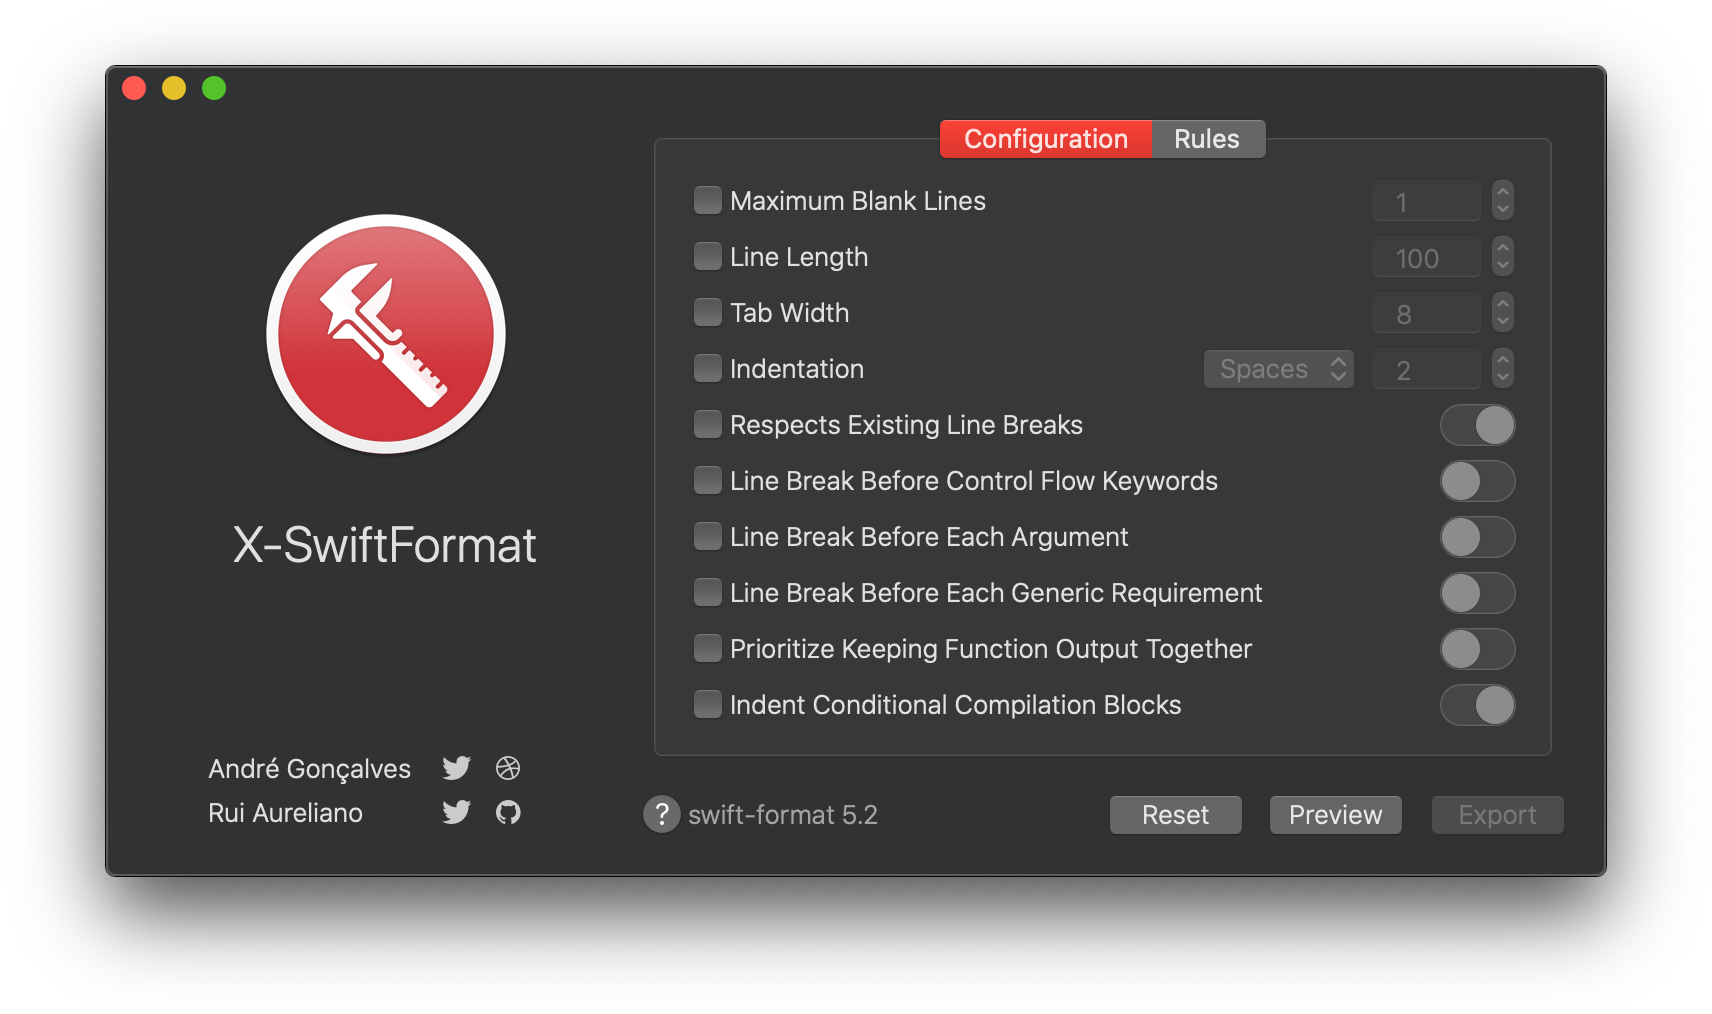
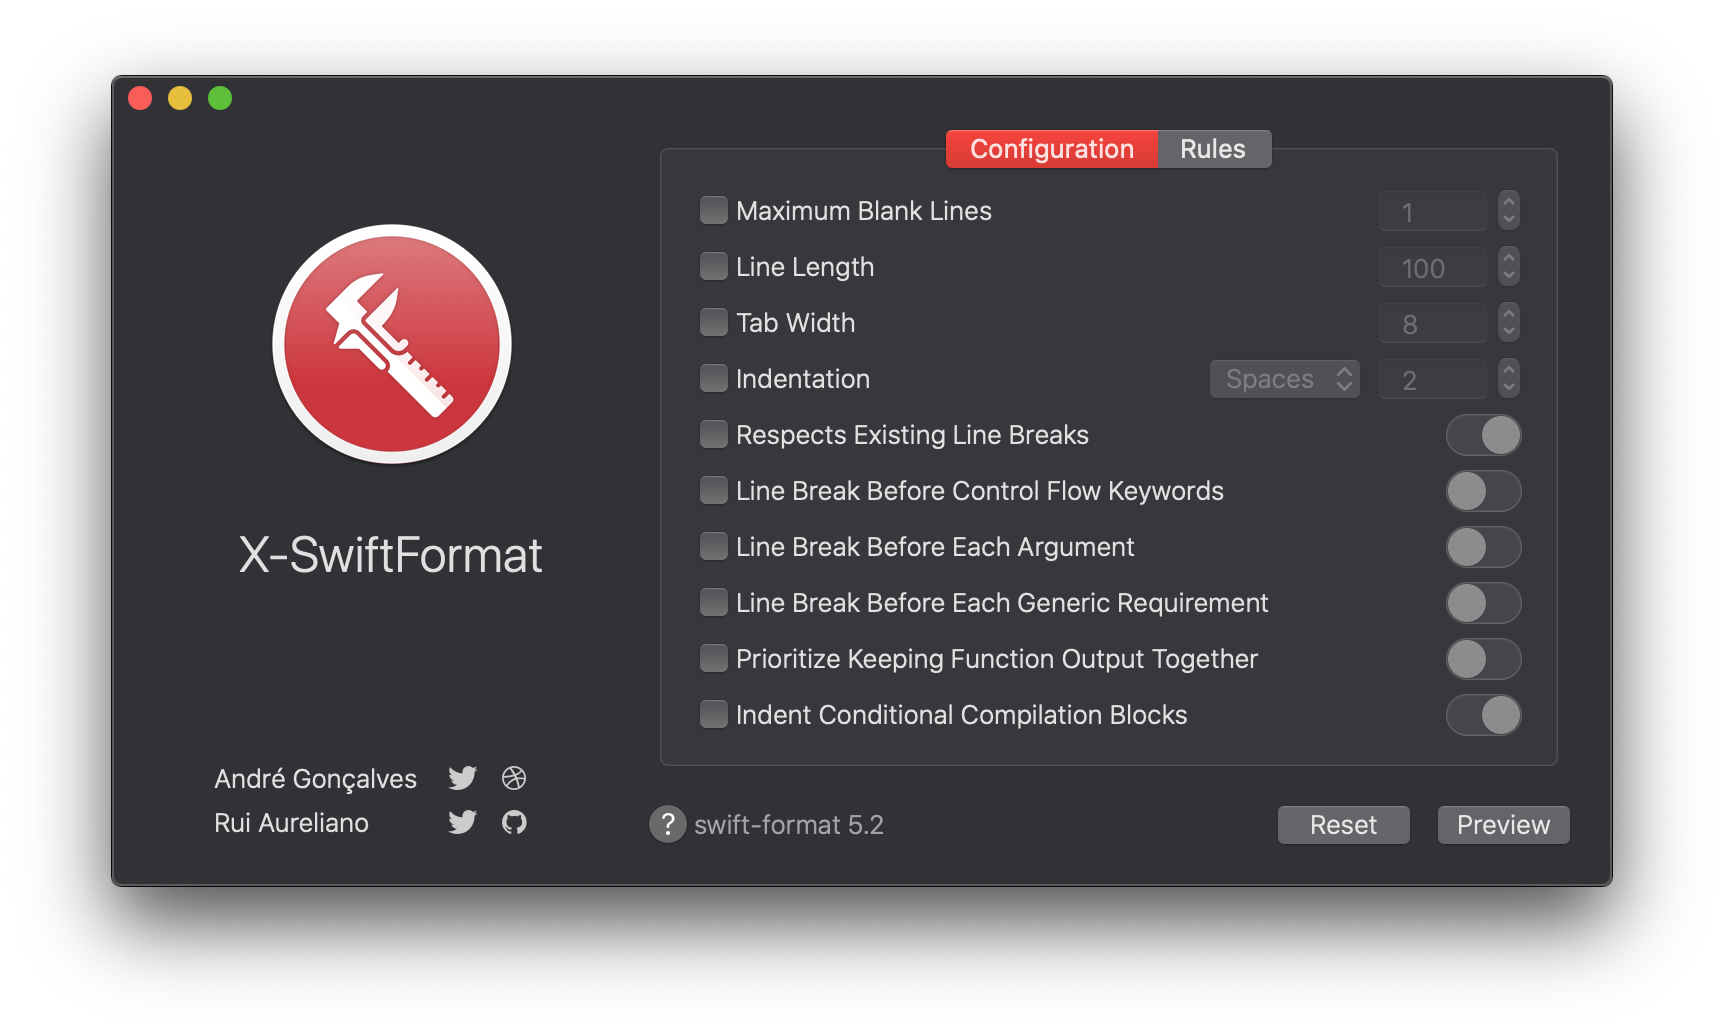
version 1.0.2

diff --git a/x-swiftformat/X-SwiftFormat/Source/app/AppDelegate.swift b/x-swiftformat/X-SwiftFormat/Source/app/AppDelegate.swift
@@ -37,7 +37,7 @@ import Cocoa
 		previewWindow.superWindow = window
 
 		tabView.delegate = self
-		
+
 		if let executable = Bundle.main.CFBundleExecutable {
 			appName.stringValue = executable
 		}
@@ -90,141 +90,6 @@ import Cocoa
 			if let iconOverlayCopy = iconOverlay.copy() as? NSImage {
 				if let icon = AppIcon.with(image: iconOverlayCopy, with: .selectedContentBackgroundColor) {
 					NSApp.applicationIconImage = icon
-				}
-			}
-		}
-	}
-
-	func exportConfigurationFile() {
-		let savePanel = NSSavePanel()
-		savePanel.canCreateDirectories = true
-		savePanel.showsTagField = false
-		savePanel.nameFieldStringValue = "swift-format-configuration.\(XSFDocType.config.rawValue)"
-
-		savePanel.beginSheetModal(for: self.window) { (response) in
-			if response.rawValue == 1 {
-				if let url = savePanel.url {
-					var configuration: [String: Any] = [:]
-					for entry in UserDefaults.configuration {
-						configuration[entry.key] = entry.value
-					}
-					var metadata: [String: String] = ["type": "configuration"]
-					if let version = Bundle.main.CFBundleShortVersionString {
-						metadata["version"] = version
-					}
-					if let build = Bundle.main.CFBundleVersion {
-						metadata["build"] = build
-					}
-					configuration["metadata"] = metadata
-					if let json = configuration.jsonPretty {
-						try? json.write(to: url, atomically: true, encoding: String.Encoding.utf8)
-					}
-				}
-			}
-		}
-	}
-
-	func exportRulesFile() {
-		let savePanel = NSSavePanel()
-		savePanel.canCreateDirectories = true
-		savePanel.showsTagField = false
-		savePanel.nameFieldStringValue = "swift-format-rules.\(XSFDocType.rules.rawValue)"
-		savePanel.beginSheetModal(for: self.window) { (response) in
-			if response.rawValue == 1 {
-				if let url = savePanel.url {
-					var rules: [String: Any] = [:]
-					for entry in UserDefaults.rules {
-						rules[entry.key] = entry.value
-					}
-					var metadata: [String: String] = ["type": "rules"]
-					if let version = Bundle.main.CFBundleShortVersionString {
-						metadata["version"] = version
-					}
-					if let build = Bundle.main.CFBundleVersion {
-						metadata["build"] = build
-					}
-					rules["metadata"] = metadata
-					if let json = rules.jsonPretty {
-						try? json.write(to: url, atomically: true, encoding: String.Encoding.utf8)
-					}
-				}
-			}
-		}
-	}
-
-	func exportSwiftFormatFile() {
-		let savePanel = NSSavePanel()
-		savePanel.canCreateDirectories = true
-		savePanel.showsTagField = false
-		savePanel.nameFieldStringValue = ".swift-format"
-		savePanel.beginSheetModal(for: self.window) { (response) in
-			if response.rawValue == 1 {
-				if let url = savePanel.url {
-					var swiftformat: [String: Any] = UserDefaults.configuration
-					if UserDefaults.rules.count > 0 {
-						swiftformat["rules"] = UserDefaults.rules
-					}
-					if let json = swiftformat.jsonPretty {
-						try? json.write(to: url, atomically: true, encoding: String.Encoding.utf8)
-					}
-				}
-			}
-		}
-	}
-
-	func exportConfigurationOrRulesFile() {
-		var tabOption: TabOption = .configuration
-		if let selectedTabViewItem = tabView.selectedTabViewItem {
-			if let option = TabOption(rawValue: selectedTabViewItem.label) {
-				tabOption = option
-			}
-		}
-		let savePanel = NSSavePanel()
-		savePanel.canCreateDirectories = true
-		savePanel.showsTagField = false
-		switch tabOption {
-		case .configuration:
-			savePanel.nameFieldStringValue = "swift-format-configuration.\(XSFDocType.config.rawValue)"
-		case .rules:
-			savePanel.nameFieldStringValue = "swift-format-rules.\(XSFDocType.rules.rawValue)"
-		}
-		savePanel.beginSheetModal(for: self.window) { (response) in
-			if response.rawValue == 1 {
-				if let url = savePanel.url {
-					switch tabOption {
-					case .configuration:
-						var configuration: [String: Any] = [:]
-						for entry in UserDefaults.configuration {
-							configuration[entry.key] = entry.value
-						}
-						var metadata: [String: String] = ["type": "configuration"]
-						if let version = Bundle.main.CFBundleShortVersionString {
-							metadata["version"] = version
-						}
-						if let build = Bundle.main.CFBundleVersion {
-							metadata["build"] = build
-						}
-						configuration["metadata"] = metadata
-						if let json = configuration.jsonPretty {
-							try? json.write(to: url, atomically: true, encoding: String.Encoding.utf8)
-						}
-					case .rules:
-						var rules: [String: Any] = [:]
-						for entry in UserDefaults.rules {
-							rules[entry.key] = entry.value
-						}
-						var metadata: [String: String] = ["type": "rules"]
-						if let version = Bundle.main.CFBundleShortVersionString {
-							metadata["version"] = version
-						}
-						if let build = Bundle.main.CFBundleVersion {
-							metadata["build"] = build
-						}
-						rules["metadata"] = metadata
-						if let json = rules.jsonPretty {
-							try? json.write(to: url, atomically: true, encoding: String.Encoding.utf8)
-						}
-					}
 				}
 			}
 		}

diff --git a/x-swiftformat/X-SwiftFormat/Source/app/AppDelegate+Menu.swift b/x-swiftformat/X-SwiftFormat/Source/app/AppDelegate+Menu.swift
@@ -21,32 +21,38 @@ extension AppDelegate {
 		dialog.showsHiddenFiles = true
 		dialog.canChooseDirectories = false
 		dialog.allowsMultipleSelection = true
-		dialog.allowedFileTypes = [XSFDocType.config.rawValue, XSFDocType.rules.rawValue]
-
+		dialog.allowedFileTypes = [XSFDocType.swiftformat.rawValue]
 		if dialog.runModal() == .OK {
 			for url in dialog.urls {
+				debugPrint(url.pathExtension.lowercased())
 				if let docType = XSFDocType(rawValue: url.pathExtension.lowercased()) {
 					switch docType {
-					case .config:
-						XSFDocHandler.readConfigFile(with: url)
-					case .rules:
-						XSFDocHandler.readRulesFile(with: url)
+					case .swiftformat:
+						XSFDocHandler.readSwiftFormatFile(with: url)
 					}
 				}
 			}
 		}
 	}
 
-	@IBAction func exportMenuItemConfiguration(_ button: NSMenuItem) {
-		exportConfigurationFile()
-	}
-
-	@IBAction func exportMenuItemRules(_ button: NSMenuItem) {
-		exportRulesFile()
-	}
-
-	@IBAction func exportMenuItemSwiftFormat(_ button: NSMenuItem) {
-		exportSwiftFormatFile()
+	@IBAction func exportMenuItem(_ button: NSMenuItem) {
+		let savePanel = NSSavePanel()
+		savePanel.canCreateDirectories = true
+		savePanel.showsTagField = false
+		savePanel.nameFieldStringValue = ".swift-format"
+		savePanel.beginSheetModal(for: self.window) { (response) in
+			if response.rawValue == 1 {
+				if let url = savePanel.url {
+					var swiftformat: [String: Any] = UserDefaults.configuration
+					if UserDefaults.rules.count > 0 {
+						swiftformat["rules"] = UserDefaults.rules
+					}
+					if let json = swiftformat.jsonPretty {
+						try? json.write(to: url, atomically: true, encoding: String.Encoding.utf8)
+					}
+				}
+			}
+		}
 	}
 
 	@IBAction func previewMenuItem(_ button: NSMenuItem) {

diff --git a/x-swiftformat/X-SwiftFormat/Source/doc/XSFDocHandler.swift b/x-swiftformat/X-SwiftFormat/Source/doc/XSFDocHandler.swift
@@ -18,10 +18,8 @@ class XSFDocHandler: NSObject {
 				if split.count == 2 {
 					if let docType = XSFDocType(rawValue: String(split[1]).lowercased()) {
 						switch docType {
-						case .config:
-							readConfigFile(with: URL(fileURLWithPath: filename))
-						case .rules:
-							readRulesFile(with: URL(fileURLWithPath: filename))
+						case .swiftformat:
+							readSwiftFormatFile(with: URL(fileURLWithPath: filename))
 						}
 					}
 				}
@@ -29,26 +27,21 @@ class XSFDocHandler: NSObject {
 		}
 	}
 
-	static func readConfigFile(with url: URL) {
+	static func readSwiftFormatFile(with url: URL) {
+
 		if let data = try? Data(contentsOf: url) {
 			if let json = data.json as? [String: Any] {
+
 				var configuration: [String: Any] = [:]
 				for entry in json {
 					let key = entry.key
 					let value = entry.value
-					if key != "metadata" {
+					if key != "metadata" && key != "rules" {
 						configuration[key] = value
 					}
 				}
 				_ = UserDefaults.saveConfiguration(configuration: configuration)
-				NotificationCenter.default.post(name: kReadXSFFileNotification, object: nil)
-			}
-		}
-	}
 
-	static func readRulesFile(with url: URL) {
-		if let data = try? Data(contentsOf: url) {
-			if let json = data.json as? [String: Any] {
 				var rules: [String: Bool] = [:]
 				for entry in json {
 					let key = entry.key
@@ -59,6 +52,7 @@ class XSFDocHandler: NSObject {
 					}
 				}
 				_ = UserDefaults.saveRules(rules: rules)
+
 				NotificationCenter.default.post(name: kReadXSFFileNotification, object: nil)
 			}
 		}

diff --git a/x-swiftformat/X-SwiftFormat/Source/window/tabs/configuration/TabConfigurationView+Delegate.swift b/x-swiftformat/X-SwiftFormat/Source/window/tabs/configuration/TabConfigurationView+Delegate.swift
@@ -54,7 +54,6 @@ extension TabConfigurationView: TabConfigurationViewCellDelegate {
 			self.sharedConfiguration.removeValue(forKey: key)
 		}
 		_ = UserDefaults.saveConfiguration(configuration: sharedConfiguration)
-		self.exportButton.isEnabled = (sharedConfiguration.count > 0)
 	}
 
 	func numberChanged(key: String, labelValue: Bool, stepperValue: Int) {
@@ -64,7 +63,6 @@ extension TabConfigurationView: TabConfigurationViewCellDelegate {
 			self.sharedConfiguration.removeValue(forKey: key)
 		}
 		_ = UserDefaults.saveConfiguration(configuration: sharedConfiguration)
-		self.exportButton.isEnabled = (sharedConfiguration.count > 0)
 	}
 
 	func objectChanged(key: String, labelValue: Bool, popup: String, stepperValue: Int) {
@@ -74,6 +72,5 @@ extension TabConfigurationView: TabConfigurationViewCellDelegate {
 			self.sharedConfiguration.removeValue(forKey: key)
 		}
 		_ = UserDefaults.saveConfiguration(configuration: sharedConfiguration)
-		self.exportButton.isEnabled = (sharedConfiguration.count > 0)
 	}
 }

diff --git a/x-swiftformat/X-SwiftFormat/Source/window/tabs/configuration/TabConfigurationView.swift b/x-swiftformat/X-SwiftFormat/Source/window/tabs/configuration/TabConfigurationView.swift
@@ -10,7 +10,6 @@ import Cocoa
 
 class TabConfigurationView: NSTableView {
 
-	@IBOutlet weak var exportButton: NSButton!
 	var sharedConfiguration: [String: Any] = [:]
 
 	override func awakeFromNib() {
@@ -18,12 +17,10 @@ class TabConfigurationView: NSTableView {
 		self.dataSource = self
 		self.delegate = self
 		self.sharedConfiguration = UserDefaults.configuration
-		self.exportButton.isEnabled = (sharedConfiguration.count > 0)
 	}
 
 	func reloadDataSource() {
 		self.sharedConfiguration = UserDefaults.configuration
-		self.exportButton.isEnabled = (sharedConfiguration.count > 0)
 		self.reloadData()
 	}
 }

diff --git a/x-swiftformat/X-SwiftFormat/Source/window/tabs/rules/TabRulesView.swift b/x-swiftformat/X-SwiftFormat/Source/window/tabs/rules/TabRulesView.swift
@@ -10,7 +10,6 @@ import Cocoa
 
 class TabRulesView: NSTableView {
 
-	@IBOutlet weak var exportButton: NSButton!
 	var sharedRules: [String: Bool] = [:]
 
 	override func awakeFromNib() {
@@ -18,12 +17,10 @@ class TabRulesView: NSTableView {
 		self.dataSource = self
 		self.delegate = self
 		self.sharedRules = UserDefaults.rules
-		self.exportButton.isEnabled = (sharedRules.count > 0)
 	}
 
 	func reloadDataSource() {
 		self.sharedRules = UserDefaults.rules
-		self.exportButton.isEnabled = (sharedRules.count > 0)
 		self.reloadData()
 	}
 }

diff --git a/x-swiftformat/X-SwiftFormat/Source/app/AppDelegate+Actions.swift b/x-swiftformat/X-SwiftFormat/Source/app/AppDelegate+Actions.swift
@@ -61,8 +61,4 @@ extension AppDelegate {
 		previewWindow.openWithConfiguration(configuration: tabViewConfiguration.sharedConfiguration, rules: tabViewRules.sharedRules)
 		previewWindow.makeKeyAndOrderFront(self)
 	}
-
-	@IBAction func exportButtonPress(_ button: NSButton) {
-		exportConfigurationOrRulesFile()
-	}
 }

diff --git a/x-swiftformat/X-SwiftFormat/Source/doc/XSFDoc.swift b/x-swiftformat/X-SwiftFormat/Source/doc/XSFDoc.swift
@@ -11,8 +11,7 @@ import Cocoa
 let kReadXSFFileNotification = NSNotification.Name(rawValue: "kReadXSFFileNotification")
 
 enum XSFDocType: String {
-	case config = "xsfconfig"
-	case rules = "xsfrules"
+	case swiftformat = ""
 }
 
 class XSFDoc: NSDocument {

diff --git a/x-swiftformat/X-SwiftFormat/Source/window/tabs/rules/TabRulesView+Delegate.swift b/x-swiftformat/X-SwiftFormat/Source/window/tabs/rules/TabRulesView+Delegate.swift
@@ -39,6 +39,5 @@ extension TabRulesView: TabRulesViewCellDelegate {
 			self.sharedRules.removeValue(forKey: key)
 		}
 		_ = UserDefaults.saveRules(rules: sharedRules)
-		self.exportButton.isEnabled = (sharedRules.count > 0)
 	}
 }

diff --git a/README.md b/README.md
@@ -2,7 +2,7 @@
 
 ![](./assets/readme/xsf_header.png)
 
-<a href="https://github.com/ruiaureliano/X-SwiftFormat/releases/download/1.0.1/x-swiftformat_1.0.1_.2000501.zip"><img src="./assets/readme/xsf_available_github.png" alt="" width="175" height="50"></a>
+<a href="https://github.com/ruiaureliano/X-SwiftFormat/releases/download/1.0.2/x-swiftformat_1.0.2_.2000601.zip"><img src="./assets/readme/xsf_available_github.png" alt="" width="175" height="50"></a>
 
 ### 1) Open X-SwiftFormat
 
